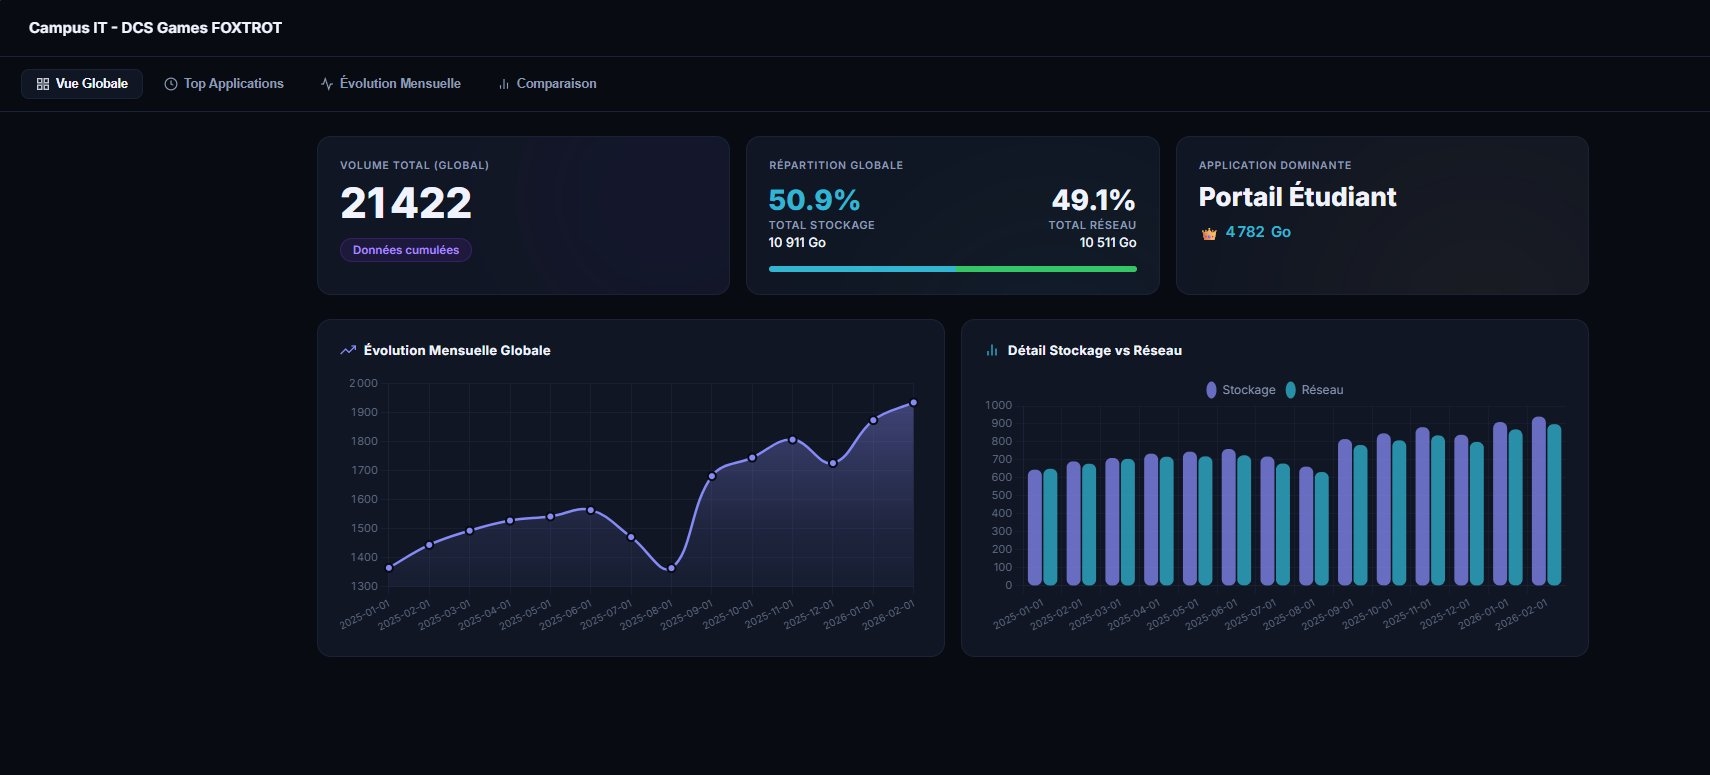
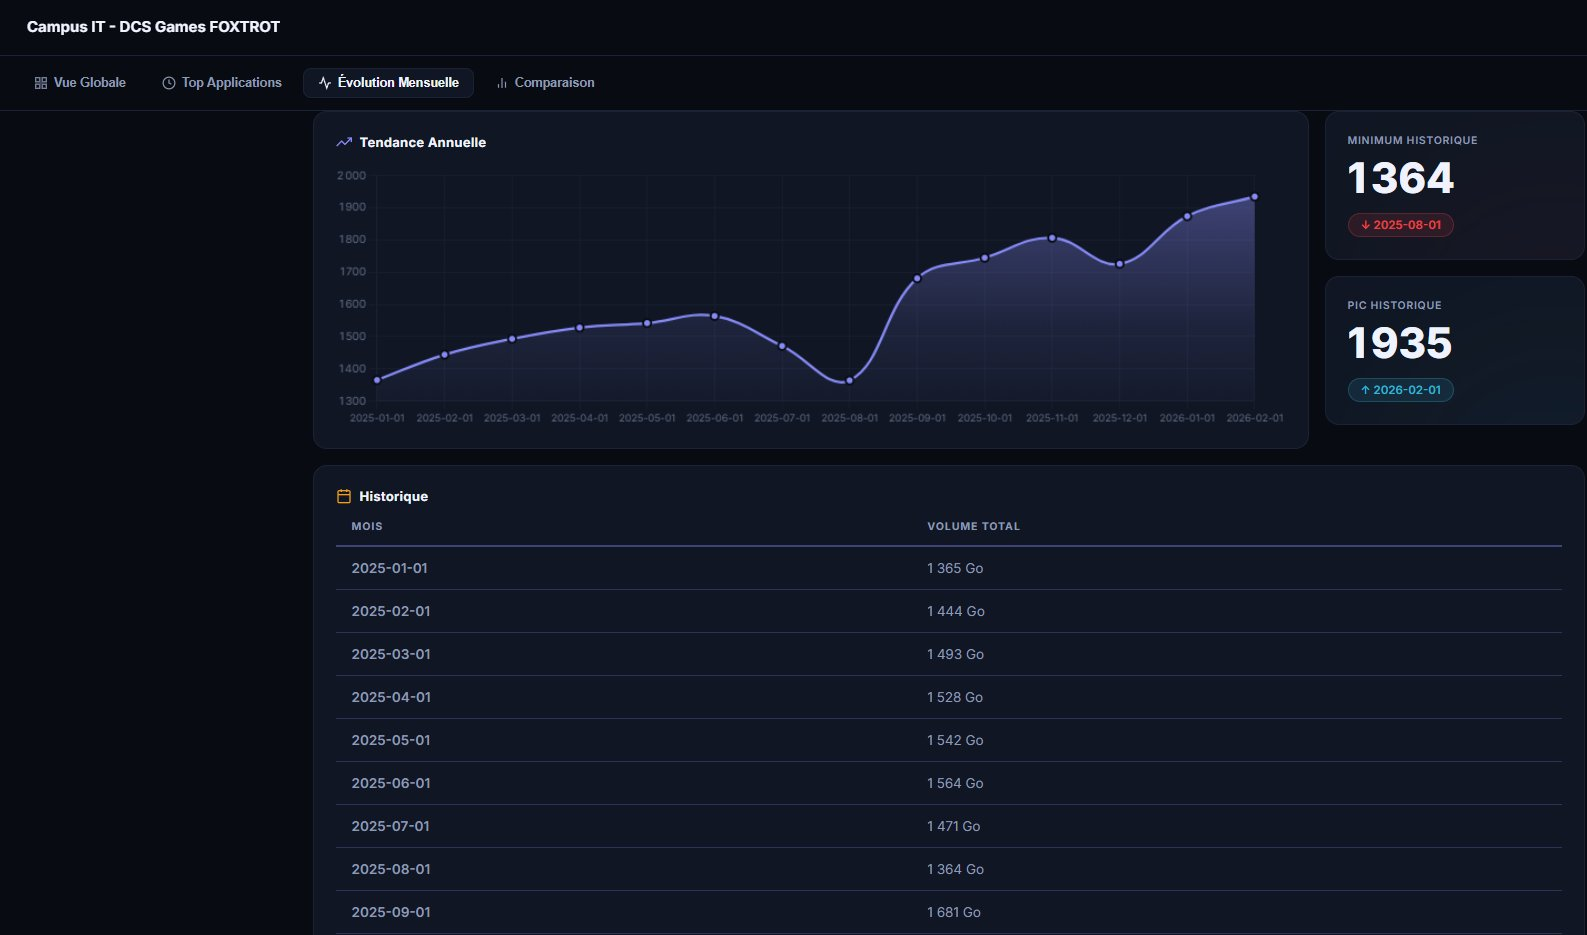
Normalement c good

diff --git a/pages/ateliers/2ème année/ap-dcs-it-games.html b/pages/ateliers/2ème année/ap-dcs-it-games.html
@@ -351,7 +351,7 @@
       <div class="screenshots-grid">
         <div class="screenshot-card">
           <div class="screenshot-label">📊 Vue Globale — Volume &amp; Évolution</div>
-          <img class="screenshot-img" id="img1" src="../../../images/dashboard-vue-globale.png" alt="Vue Globale — Volume et Évolution mensuelle">
+          <img class="screenshot-img" id="img1" src="../../../images/dashboard-globale.png" alt="Vue Globale — Volume et Évolution mensuelle">
         </div>
         <div class="screenshot-card">
           <div class="screenshot-label">🏆 Top Applications — Classement Top 5</div>